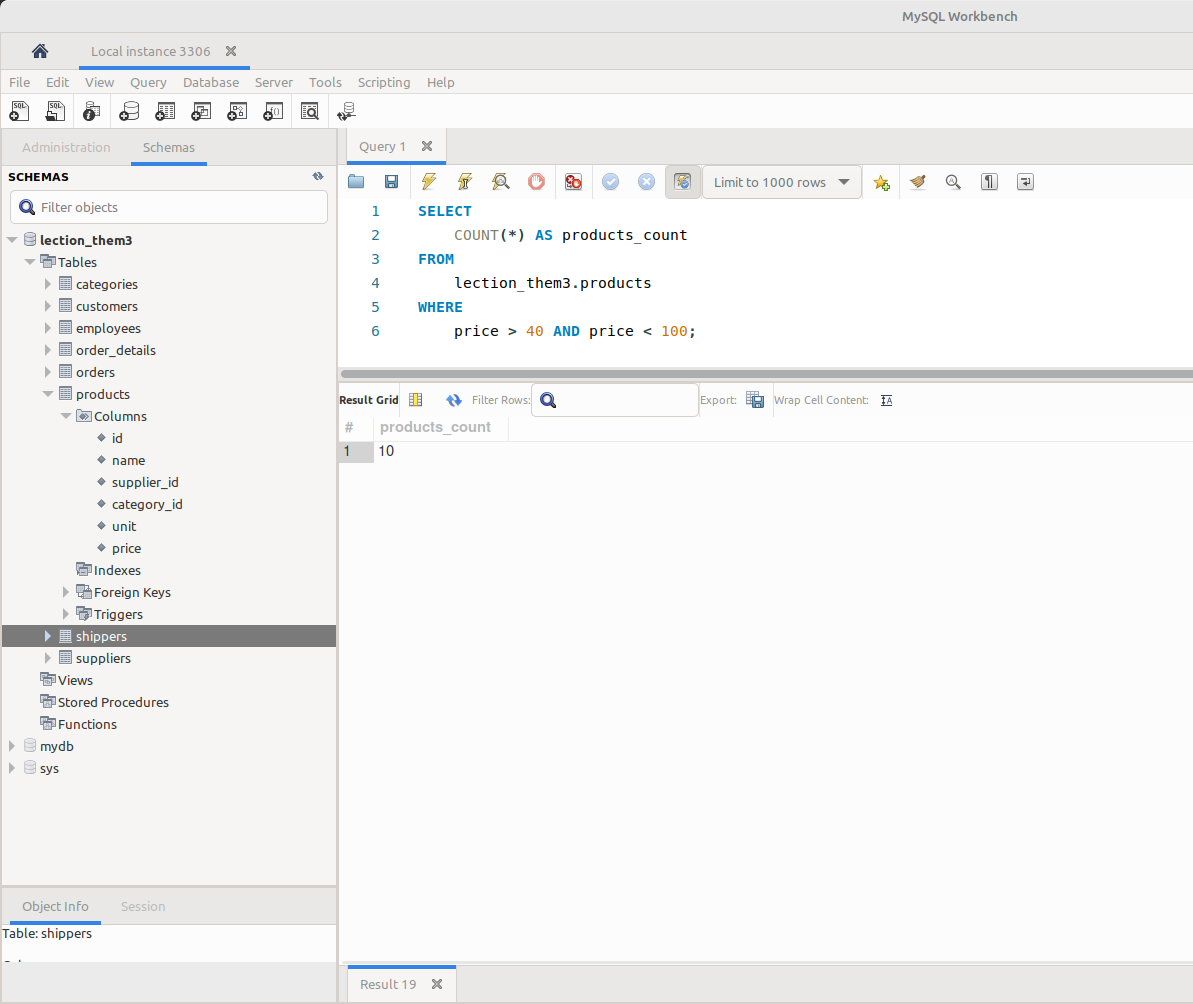
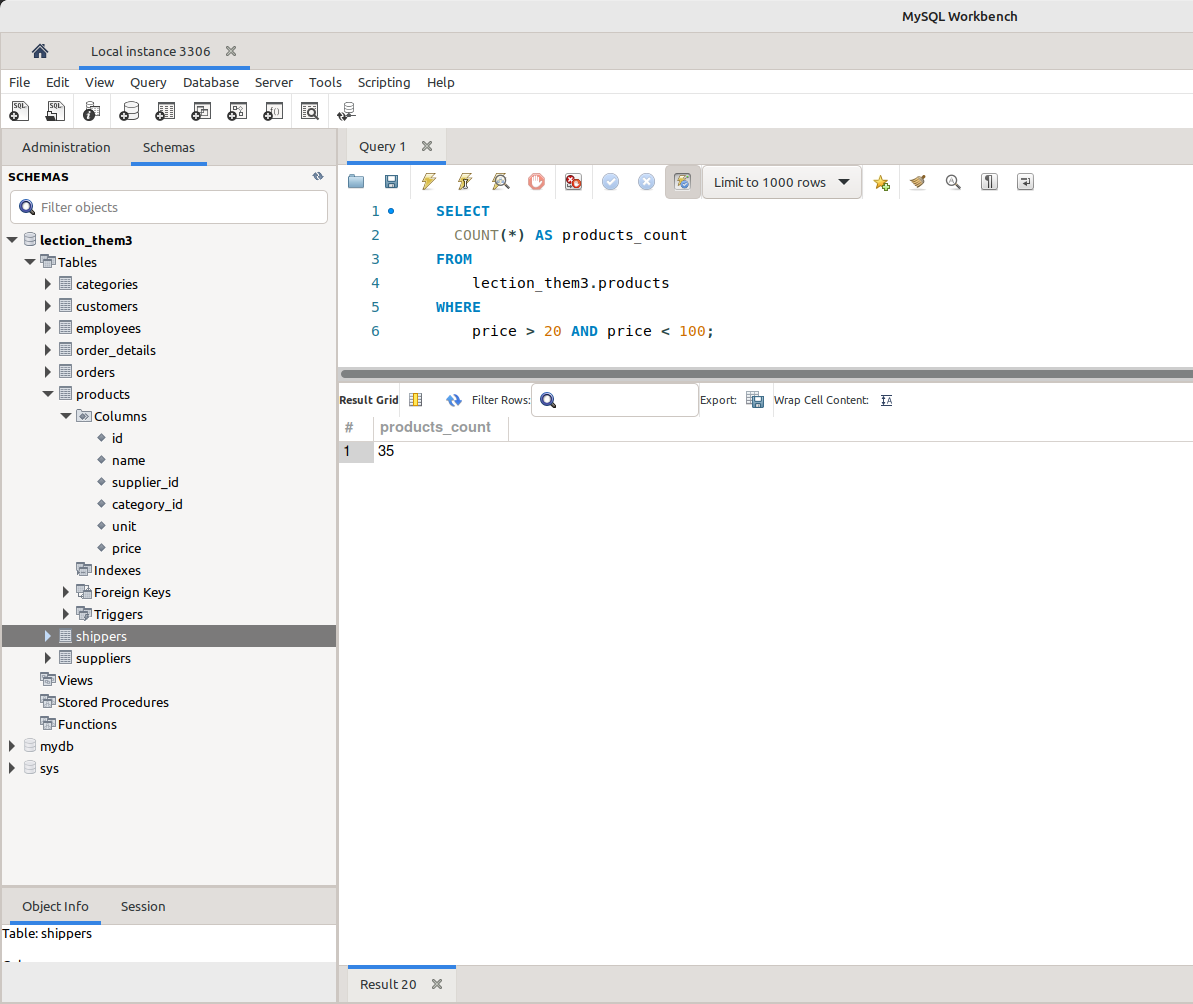
scrinshot formating

diff --git a/README.md b/README.md
@@ -56,7 +56,10 @@ SQL запити:
   ```
 
 - **Screenshot:**
-  - p3_distinct_price.png
+
+  - _p3_distinct_price.png_
+
+    ![](./p3_distinct_price.png "p3_distinct_price.png")
 
 ### Завдання 4:
 
@@ -68,7 +71,7 @@ SQL запити:
   FROM
       lection_them3.products
   WHERE
-      price > 40 AND price < 100;
+      price > 20 AND price < 100;
   ```
 
 - **Screenshot:**
